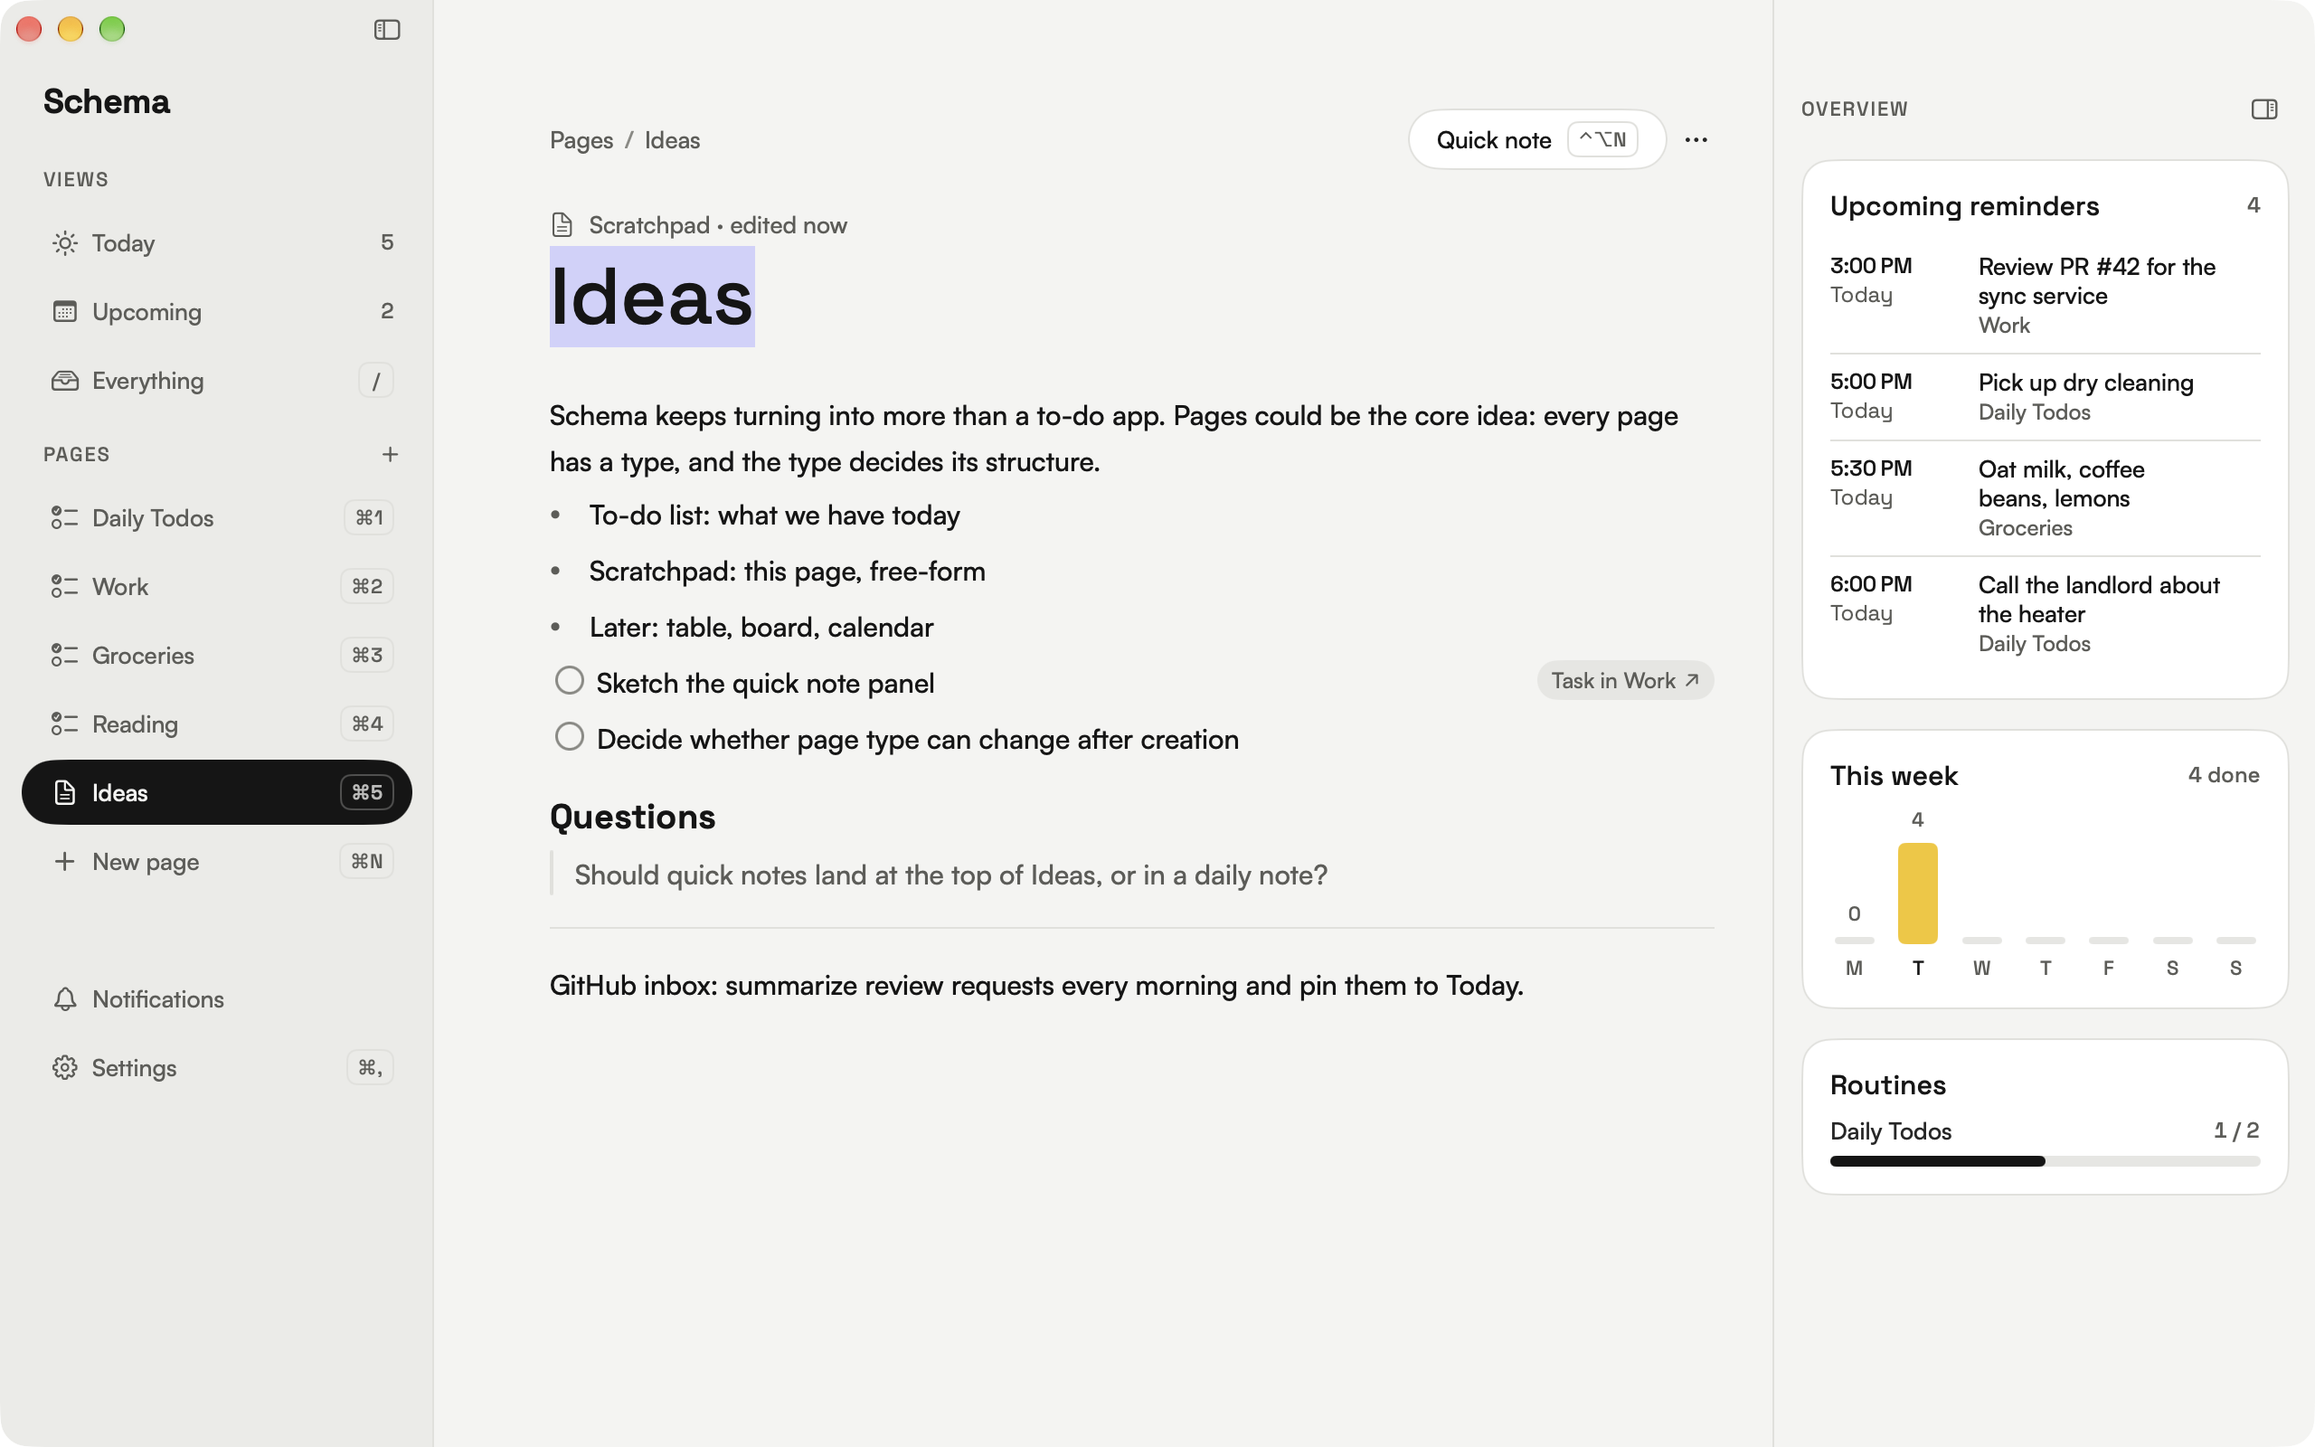
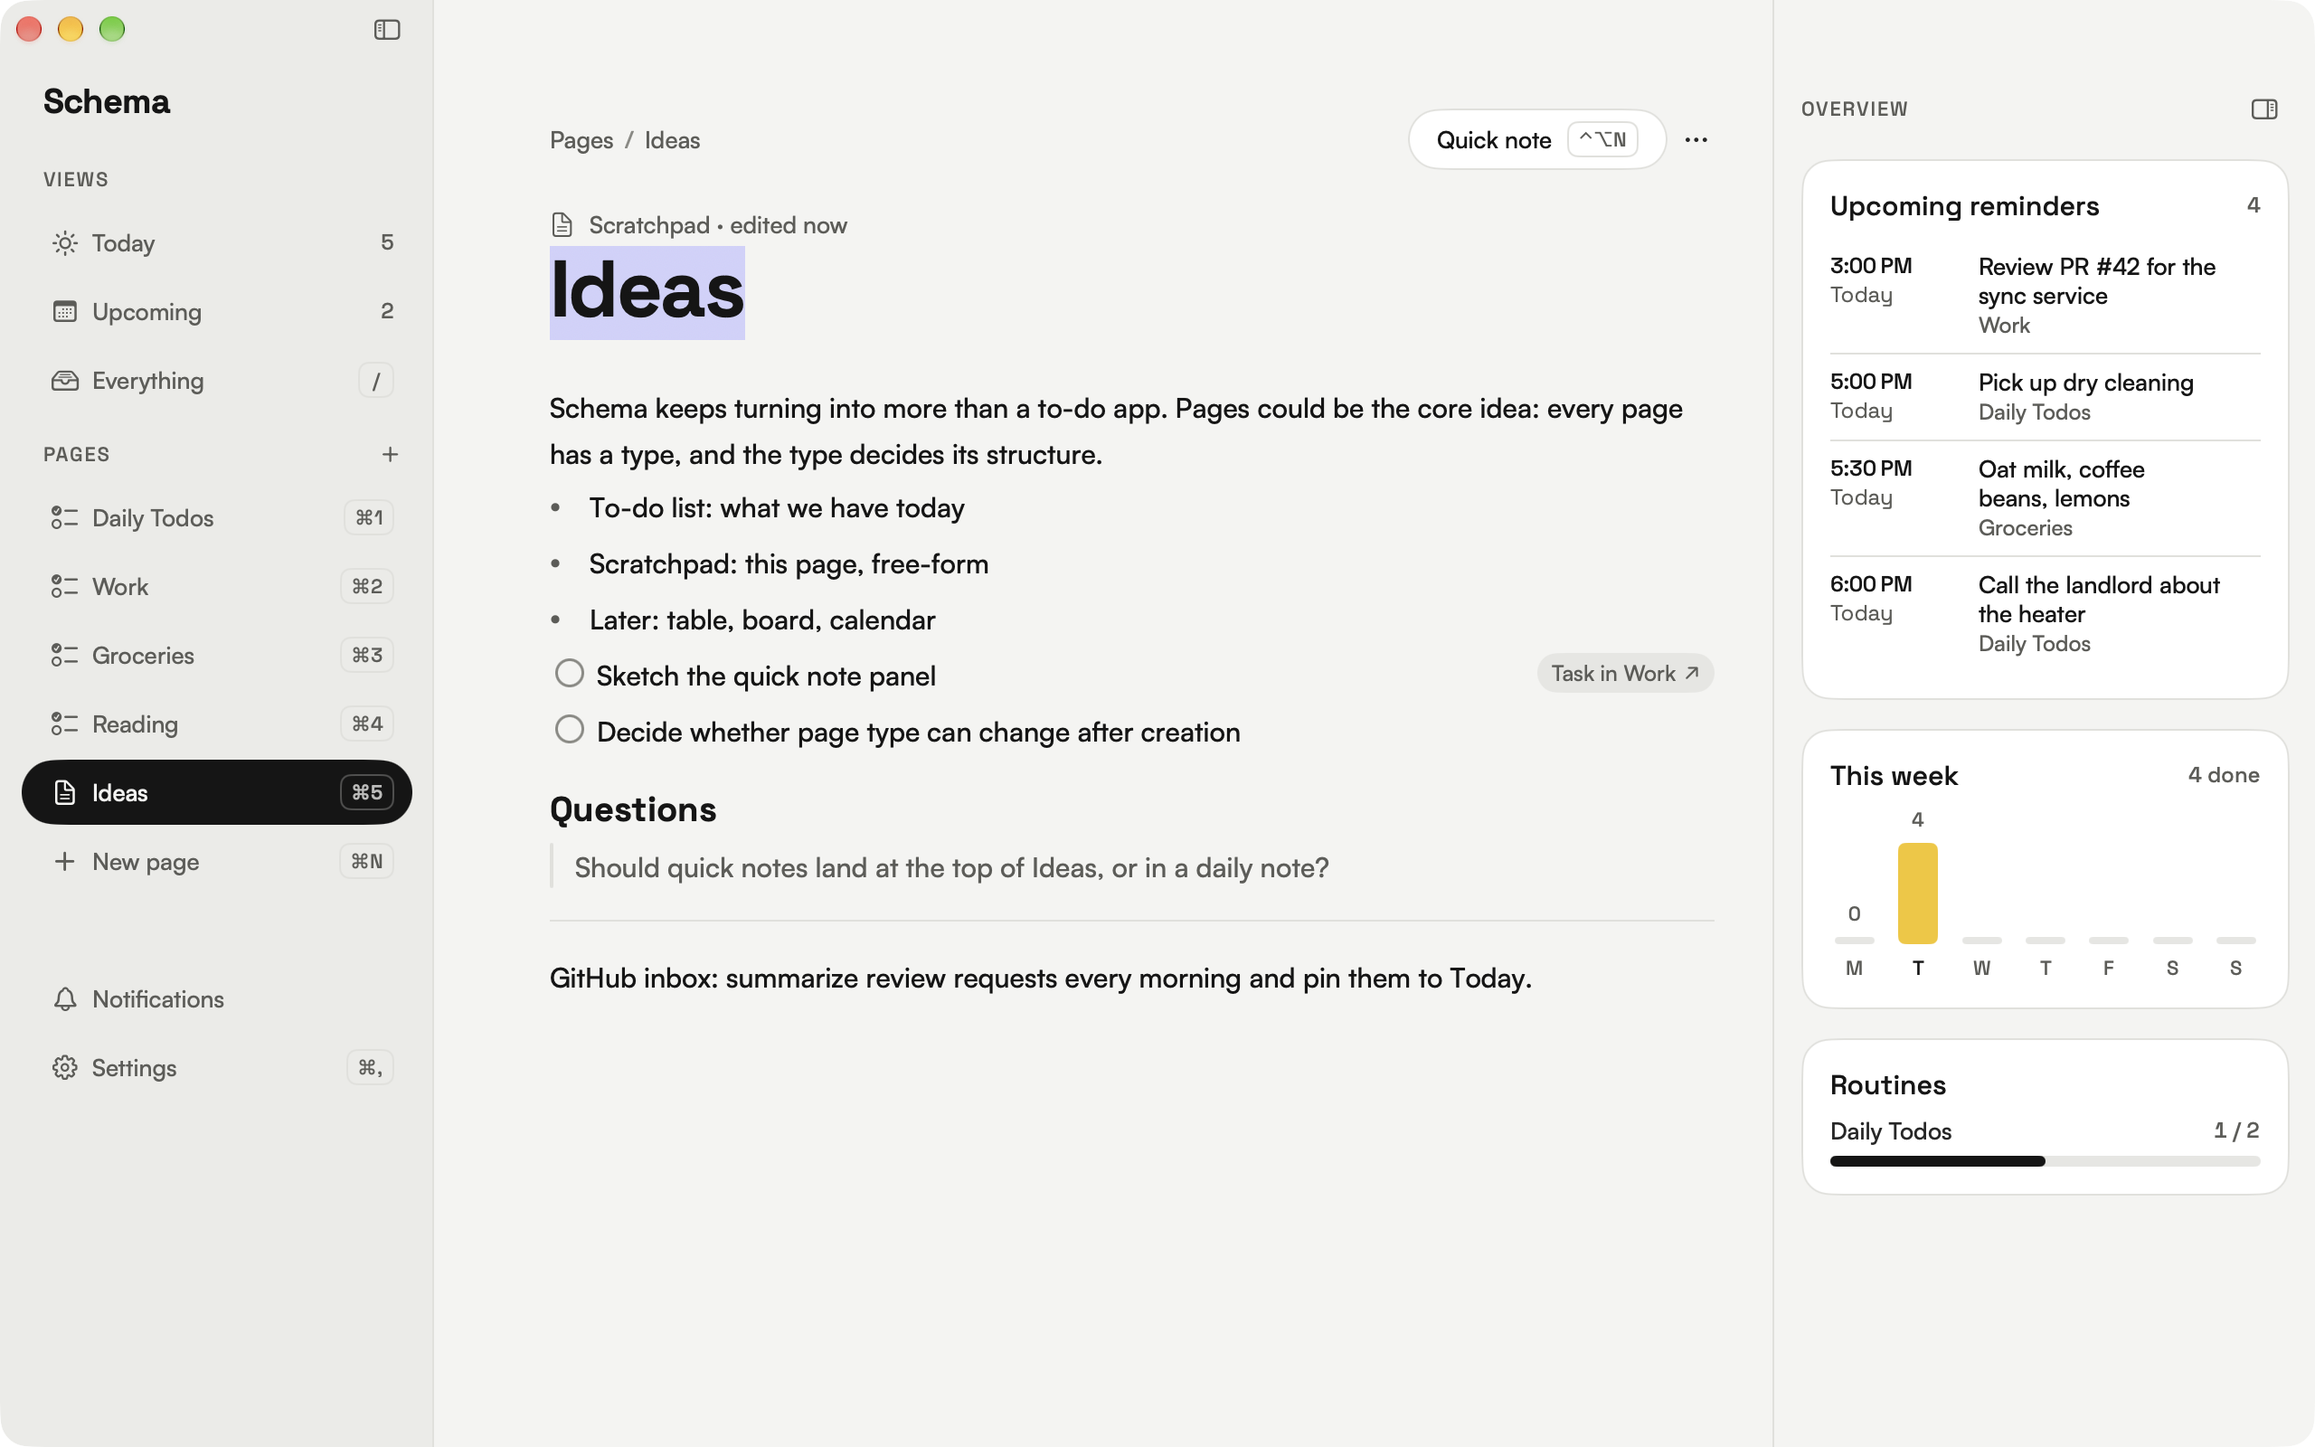
Page titles: click and type, same spacing while editing
The title was a Text that swapped to a TextField on double-click, and the
TextField dropped the title's tracking, so letters spread out while
editing. Titles are now always editable, using the block text view with
the kerning in the text itself. Return or clicking away saves, Esc
reverts, ↓ or Return on a scratchpad moves to the first line.

diff --git a/Schema/macOS/Views/ScratchpadPageView.swift b/Schema/macOS/Views/ScratchpadPageView.swift
@@ -17,9 +17,8 @@ struct ScratchpadPageView: View {
     @Environment(\.modelContext) private var modelContext
     @Environment(WorkspaceState.self) private var workspace
     @State private var editor: BlockEditor?
-    @State private var isRenaming = false
-    @State private var editedTitle = ""
-    @FocusState private var isTitleFocused: Bool
+    /// Set by Rename in a menu; focuses the title with its text selected.
+    @State private var titleFocus: BlockFocusRequest?
 
     var body: some View {
         ScrollView {
@@ -39,10 +38,7 @@ struct ScratchpadPageView: View {
             makeEditor()
             takeRenameRequest()
         }
-        .onChange(of: page.id) { _, _ in
-            endRename()
-            makeEditor()
-        }
+        .onChange(of: page.id) { _, _ in makeEditor() }
         .onChange(of: workspace.pageRenameRequest) { _, _ in takeRenameRequest() }
     }
 
@@ -79,35 +75,19 @@ struct ScratchpadPageView: View {
         .padding(.leading, BlockListView.gutterWidth)
     }
 
-    private static let titleFont = Font.spaceGrotesk(44, weight: .semibold, relativeTo: .largeTitle)
-
-    /// The page title; double-click, or Rename in the menu, edits it (#42).
-    @ViewBuilder
+    /// The page title, editable in place (#42). Return or ↓ moves to the first line.
     private var title: some View {
-        if isRenaming {
-            TextField("Page name", text: $editedTitle)
-                .textFieldStyle(.plain)
-                .font(Self.titleFont)
-                .foregroundStyle(SchemaTheme.ink)
-                .focused($isTitleFocused)
-                .onSubmit(commitRename)
-                .onKeyPress(.escape) {
-                    endRename()
-                    return .handled
-                }
-                .onChange(of: isTitleFocused) { _, focused in
-                    if !focused, isRenaming { commitRename() }
-                }
-                .accessibilityLabel("Page name")
-        } else {
-            Text(page.title)
-                .font(Self.titleFont)
-                .foregroundStyle(SchemaTheme.ink)
-                .lineLimit(2)
-                .onTapGesture(count: 2, perform: beginRename)
-                .help("Double-click to rename")
-                .accessibilityAddTraits(.isHeader)
-        }
+        PageTitleField(
+            title: page.title,
+            pageID: page.id,
+            focusRequest: titleFocus,
+            onRename: { newTitle in
+                page.title = newTitle
+                try? modelContext.save()
+            },
+            onDone: { editor?.focusFirstLine() },
+            onEditingChange: { workspace.isEditingListName = $0 }
+        )
     }
 
     /// Page options: make tasks from every open to-do line at once, rename, delete.
@@ -142,32 +122,8 @@ struct ScratchpadPageView: View {
     // MARK: Rename
 
     private func takeRenameRequest() {
-        if workspace.takePageRenameRequest(for: page.id) {
-            beginRename()
-        }
-    }
-
-    private func beginRename() {
-        editedTitle = page.title
-        isRenaming = true
-        workspace.isEditingListName = true
-        isTitleFocused = true
-    }
-
-    private func commitRename() {
-        let trimmed = editedTitle.trimmingCharacters(in: .whitespacesAndNewlines)
-        // "Everything" is reserved for the built-in view.
-        if !trimmed.isEmpty, trimmed != page.title, trimmed != SchemaList.everythingTitle {
-            page.title = trimmed
-            try? modelContext.save()
-        }
-        endRename()
-    }
-
-    private func endRename() {
-        isRenaming = false
-        isTitleFocused = false
-        workspace.isEditingListName = false
+        guard workspace.takePageRenameRequest(for: page.id) else { return }
+        titleFocus = BlockFocusRequest(blockID: page.id, caret: .all)
     }
 
     private var editedLabel: String {

diff --git a/Schema/macOS/Views/PageHeader.swift b/Schema/macOS/Views/PageHeader.swift
@@ -32,9 +32,8 @@ struct PageHeader: View {
     let onRename: (SchemaList, String) -> Void
     @Binding var isEditingListName: Bool
 
-    @State private var isEditing = false
-    @State private var editedTitle = ""
-    @FocusState private var isTitleFocused: Bool
+    /// Set by Rename in a menu; focuses the title with its text selected.
+    @State private var titleFocus: BlockFocusRequest?
 
     private static let titleFont = Font.spaceGrotesk(44, weight: .semibold, relativeTo: .largeTitle)
 
@@ -42,9 +41,6 @@ struct PageHeader: View {
         VStack(alignment: .leading, spacing: 22) {
             topBar
             titleBlock
-        }
-        .onChange(of: model.renamableList?.id) { _, _ in
-            if isEditing { endEditing() }
         }
         // Rename from the page menu or the sidebar (#42).
         .onAppear(perform: takeRenameRequest)
@@ -114,20 +110,17 @@ struct PageHeader: View {
         }
     }
 
+    /// A page's title is editable in place; views (Today, Everything) are not.
     @ViewBuilder
     private var titleView: some View {
-        if isEditing, let list = model.renamableList {
-            TextField("Page name", text: $editedTitle)
-                .textFieldStyle(.plain)
-                .font(Self.titleFont)
-                .tracking(-1.2)
-                .foregroundStyle(SchemaTheme.ink)
-                .focused($isTitleFocused)
-                .onSubmit { commit(list) }
-                .onKeyPress(.escape) {
-                    endEditing()
-                    return .handled
-                }
+        if let list = model.renamableList {
+            PageTitleField(
+                title: list.title,
+                pageID: list.id,
+                focusRequest: titleFocus,
+                onRename: { onRename(list, $0) },
+                onEditingChange: { isEditingListName = $0 }
+            )
         } else {
             Text(model.title)
                 .font(Self.titleFont)
@@ -136,8 +129,6 @@ struct PageHeader: View {
                 .lineLimit(1)
                 .minimumScaleFactor(0.6)
                 .truncationMode(.tail)
-                .onTapGesture(count: 2) { beginEditing() }
-                .help(model.renamableList == nil ? "" : "Double-click to rename")
                 .accessibilityAddTraits(.isHeader)
         }
     }
@@ -169,31 +160,8 @@ struct PageHeader: View {
     // MARK: Rename
 
     private func takeRenameRequest() {
-        if workspace.takePageRenameRequest(for: model.renamableList?.id) {
-            beginEditing()
-        }
-    }
-
-    private func beginEditing() {
-        guard let list = model.renamableList else { return }
-        editedTitle = list.title
-        isEditing = true
-        isEditingListName = true
-        isTitleFocused = true
-    }
-
-    private func commit(_ list: SchemaList) {
-        let trimmed = editedTitle.trimmingCharacters(in: .whitespacesAndNewlines)
-        if !trimmed.isEmpty, trimmed != list.title {
-            onRename(list, trimmed)
-        }
-        endEditing()
-    }
-
-    private func endEditing() {
-        isEditing = false
-        isTitleFocused = false
-        isEditingListName = false
+        guard let id = model.renamableList?.id, workspace.takePageRenameRequest(for: id) else { return }
+        titleFocus = BlockFocusRequest(blockID: id, caret: .all)
     }
 }
 

diff --git a/Schema/macOS/Views/PageTitleField.swift b/Schema/macOS/Views/PageTitleField.swift
@@ -1,0 +1,82 @@
+//
+//  PageTitleField.swift
+//  Schema
+//
+//  A page's large title, editable in place like the text below it: click
+//  and type. It is the same text view as the blocks, so letter spacing and
+//  line height don't change while editing. Return or clicking away saves;
+//  Esc puts the old name back.
+//
+
+import AppKit
+import SwiftUI
+
+struct PageTitleField: View {
+    let title: String
+    let pageID: UUID
+    /// Rename from a menu: focus the title with all of it selected.
+    let focusRequest: BlockFocusRequest?
+    let onRename: (String) -> Void
+    /// After Return, or ↓ on the last line: e.g. move to the first block.
+    var onDone: (() -> Void)?
+    var onEditingChange: (Bool) -> Void = { _ in }
+
+    @State private var draft = ""
+
+    static let style = BlockTextStyle(
+        font: .schemaDisplay(44, weight: .semibold),
+        color: NSColor(SchemaTheme.ink),
+        lineHeight: 52,
+        kern: -1.2
+    )
+
+    var body: some View {
+        BlockTextView(
+            text: draft,
+            style: Self.style,
+            placeholder: "Untitled",
+            focusRequest: focusRequest,
+            blockID: pageID,
+            onTextChange: { draft = $0 },
+            onReturn: { _ in finish() },
+            onBackspaceAtStart: {},
+            onArrowOut: { forward in if forward { finish() } },
+            onFocusChange: { focused in
+                onEditingChange(focused)
+                if !focused { commit() }
+            },
+            onEscape: {
+                draft = title
+                resign()
+            }
+        )
+        .onAppear { draft = title }
+        .onChange(of: title) { _, newTitle in draft = newTitle }
+        .onChange(of: pageID) { _, _ in draft = title }
+        .help("Click to rename")
+        .accessibilityLabel("Page name")
+        .accessibilityAddTraits(.isHeader)
+    }
+
+    private func finish() {
+        commit()
+        if let onDone { onDone() } else { resign() }
+    }
+
+    private func commit() {
+        let cleaned = draft
+            .replacingOccurrences(of: "\n", with: " ")
+            .trimmingCharacters(in: .whitespacesAndNewlines)
+        // A blank name, or "Everything", keeps the old one.
+        guard !cleaned.isEmpty, cleaned != SchemaList.everythingTitle else {
+            draft = title
+            return
+        }
+        if cleaned != title { onRename(cleaned) }
+        draft = cleaned
+    }
+
+    private func resign() {
+        NSApp.keyWindow?.makeFirstResponder(nil)
+    }
+}

diff --git a/Schema/macOS/Views/Blocks/BlockTextView.swift b/Schema/macOS/Views/Blocks/BlockTextView.swift
@@ -17,6 +17,8 @@ struct BlockTextStyle: Equatable {
     var lineHeight: CGFloat
     var isStruckThrough = false
     var isItalic = false
+    /// Letter spacing in points, like SwiftUI's `tracking`.
+    var kern: CGFloat = 0
 }
 
 struct BlockTextView: NSViewRepresentable {
@@ -87,6 +89,9 @@ struct BlockTextView: NSViewRepresentable {
                 case .start: location = 0
                 case .end: location = length
                 case .offset(let offset): location = min(max(offset, 0), length)
+                case .all:
+                    view.setSelectedRange(NSRange(location: 0, length: length))
+                    return
                 }
                 view.setSelectedRange(NSRange(location: location, length: 0))
                 view.scrollRangeToVisible(NSRange(location: location, length: 0))
@@ -126,6 +131,7 @@ struct BlockTextView: NSViewRepresentable {
             .foregroundColor: style.color,
             .paragraphStyle: paragraph,
             .baselineOffset: max(0, offset / 2),
+            .kern: style.kern,
         ]
         if style.isStruckThrough {
             attributes[.strikethroughStyle] = NSUnderlineStyle.single.rawValue
@@ -299,6 +305,7 @@ final class BlockNSTextView: NSTextView {
             .foregroundColor: NSColor(SchemaTheme.inkFaint),
             .paragraphStyle: paragraph,
             .baselineOffset: max(0, offset / 2),
+            .kern: style.kern,
         ]
         NSAttributedString(string: placeholder, attributes: attributes)
             .draw(in: NSRect(x: 0, y: 0, width: bounds.width, height: style.lineHeight))

diff --git a/Schema/Core/ViewModels/BlockEditor.swift b/Schema/Core/ViewModels/BlockEditor.swift
@@ -18,6 +18,8 @@ enum CaretPlacement: Equatable {
     case end
     /// UTF-16 offset, as NSTextView counts.
     case offset(Int)
+    /// Select all the text, e.g. to rename a page title.
+    case all
 }
 
 /// A request to move the caret. `token` changes on every request, so asking

diff --git a/CHANGELOG.md b/CHANGELOG.md
@@ -17,7 +17,7 @@ All notable changes to Schema are documented in this file.
 - Fixed: long lines in a scratchpad could wrap at the wrong width and overlap the line below.
 - Scratchpads never receive tasks: quick add, @page mentions, Move to page and the default page in Settings only offer to-do lists.
 - Added the first unit tests (Swift Testing, `SchemaTests` target): block ordering, page and block models, and the V5 → V6 migration. Tests run against an in-memory store, never the real one.
-- Pages can be renamed, deleted and reordered (#42). Rename and Delete page… are in each page's ••• menu and in the sidebar's right-click menu; Rename edits the title in place, and double-clicking a scratchpad's title does too. Deleting asks once and removes the page's tasks or notes with it, cancelling their reminders; it can't be undone, and it clears ⌘Z history. Drag a page in the sidebar to move it; ⌘1–9 follow the new order. A page can't be named Everything.
+- Pages can be renamed, deleted and reordered (#42). Rename and Delete page… are in each page's ••• menu and in the sidebar's right-click menu; Page titles are editable in place: click and type, Return or clicking away saves, Esc puts the old name back; Rename selects the title. The title keeps its letter spacing while you edit. Deleting asks once and removes the page's tasks or notes with it, cancelling their reminders; it can't be undone, and it clears ⌘Z history. Drag a page in the sidebar to move it; ⌘1–9 follow the new order. A page can't be named Everything.
 
 ## [0.4.0] — 2026-11-15
 
